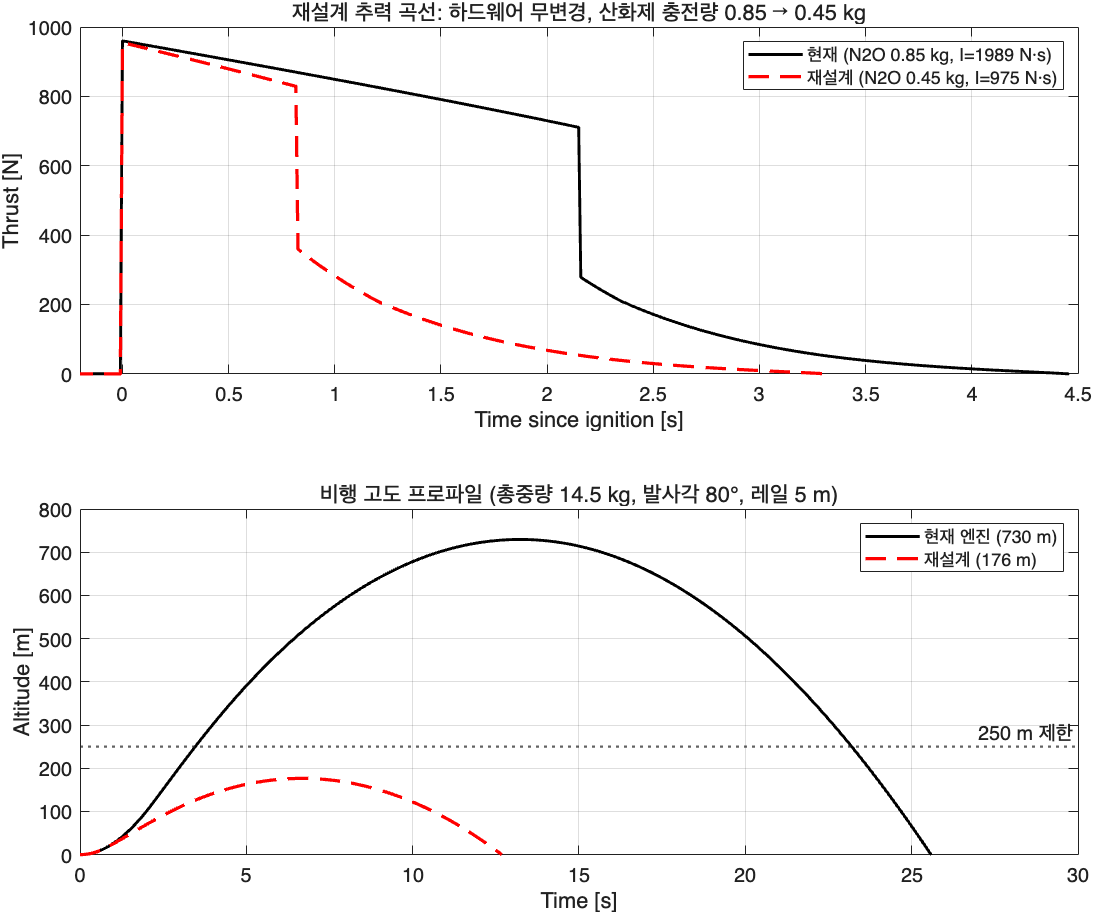
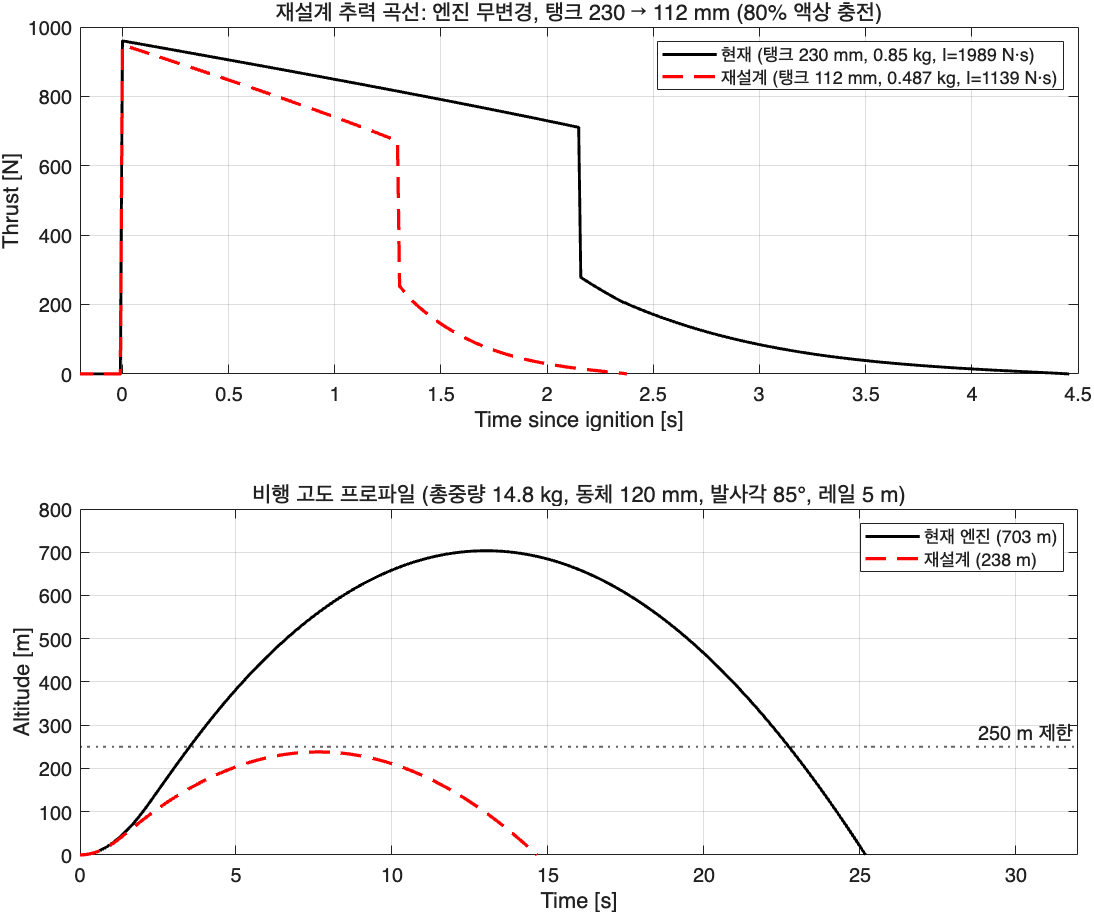
재설계 개정: 80% 액상 충전 규칙 + 신규 제원 반영, 탱크 112 mm / 0.487 kg
- 개정 제원: 총중량 14.8 kg, 동체 120 mm, 발사각 85도 (재설계 구상.md 갱신분)
- 운용 제약 반영: 부분 충전 불가, 탱크 높이의 80% 이상 액상 충전
  -> m(h) = A*h*(0.8*rho_l+0.2*rho_v) = 4.34*h[m] kg (15C) 연동 스윕
- 최종: 엔진 무변경, 탱크 230 -> 112 mm / N2O 0.487 kg
  시뮬 고도 238 m (요청 목표 ~240), 레일 22.7 m/s, I 1139 N.s
- 민감도: 탱크 1 mm = 고도 ~4.4 m; h>=115 mm부터 250 m 초과
- 임펄스 -5% 바이어스 적용 시 실기 ~260 m 가능성 명시,
  엄격 상한이면 h 108~110 mm 권장 (문서 기재)
- Flight_From_Config 기본값 개정 제원으로 갱신 (14.8/85도/동체 0.12 m)
- 1차안(부분충전 176 m)은 운용 제약으로 폐기, 문서 이력 기록

diff --git a/Flight_simul/Flight_From_Config.m b/Flight_simul/Flight_From_Config.m
@@ -5,16 +5,18 @@ function res = Flight_From_Config(config_base, opts)
 %
 %   추력 곡선: Mat_Data/<config>/<config>_y.mat의 y.nozzle.F (점화 기준 재영점)
 %   추진제 질량: 산화제 적재량(u.tank.m) + 연료 소모량(trapz y.fuel.mdot)
-%   기체/발사대: opts (기본 총중량 14.5 kg, 발사각 80도, 레일 5 m — 재설계 구상.md)
+%   기체/발사대: opts (기본 총중량 14.8 kg, 동체 120 mm, 발사각 85도, 레일 5 m
+%   — 재설계 구상.md 2026-07-04 개정판)
 %   반환: res.apogee, res.v_rail_exit, res.t_rail_exit, res.burn_alt,
 %         res.v_max, res.I_total, res.F_mean, res.t_burn, res.m_prop
 %   프로젝트 루트에서 실행하세요. (플롯/애니메이션 없음)
 
 if nargin < 2, opts = struct(); end
 getopt = @(f, d) get_field(opts, f, d);
-total_mass = getopt('total_mass', 14.5); % 이륙 총중량 [kg]
-elev_deg   = getopt('elev_deg', 80);     % 발사각 [deg]
+total_mass = getopt('total_mass', 14.8); % 이륙 총중량 [kg]
+elev_deg   = getopt('elev_deg', 85);     % 발사각 [deg]
 rail_h     = getopt('rail_h', 5);        % 레일 길이 [m]
+diameter   = getopt('diameter', 0.120);  % 동체 직경 [m]
 
 global TMS_Thrust %#ok<GVMIS>
 
@@ -45,7 +47,7 @@ m_prop = m_ox + m_fuel;
 
 %% 기체 파라미터 주입 + 초기 상태
 flight_param(struct('total_mass', total_mass, 'propulsion_mass', m_prop, ...
-                    'rail_h', rail_h));
+                    'rail_h', rail_h, 'diameter', diameter));
 init_state = [zeros(3,1); zeros(3,1); [0; elev_deg; 90]*pi/180; zeros(3,1)];
 time = 0:0.01:60;
 

diff --git a/docs/재설계/재설계 결과.md b/docs/재설계/재설계 결과.md
@@ -1,57 +1,61 @@
-# 재설계 결과 (2026-07-04)
+# 재설계 결과 (2026-07-04, 개정판)
 
-[재설계 구상.md](재설계%20구상.md)의 목표를 2026 분무·연소시험 교정 모델(fmult=4, Cd=0.60, fuel a=0.055, η_c*=0.95, flex 6.35 mm)로 달성한 결과 정리.
+[재설계 구상.md](재설계%20구상.md) 개정 제원(총중량 14.8 kg, 동체 ⌀120 mm, 발사각 85°, 레일 5 m) 기준. 2026 분무·연소시험 교정 모델(fmult=4, Cd=0.60, fuel a=0.055, η_c*=0.95, flex 6.35 mm) 사용.
 
-## 목표 대비 결과
+**운용 제약**: 부분 충전 불가 — 탱크 내부 높이의 **최소 80%가 액상**으로 채워져야 함. 따라서 탱크 높이 h와 산화제 질량 m은 독립이 아니라 m(h) = A_tank·h·(0.8·ρ_l + 0.2·ρ_v) @ 15 °C ≈ **4.34·h[m] kg**으로 연동됨.
+
+## 최종 설계: 엔진 무변경 + 탱크 단축 230 → 112 mm
+
+```
+u.tank.h = 230 → 112 mm
+u.tank.m = 0.85 → 0.487 kg   (80% 액상 충전 규칙에 따른 연동값)
+```
+
+인젝터(⌀1.4 × 28), 노즐(Dt 17 / De 35), 그레인(R7.5 × 7, L230) **모두 그대로**. 설정: `Config/2026_nova_redesign.mat` → `Run_Config` + `Flight_From_Config('2026_nova_redesign')`로 재현.
 
 | 항목 | 목표 | 현재 엔진 | **최종 재설계** |
 | --- | --- | --- | --- |
-| 최대 고도 | ≤ 250 m | 729 m | **176 m** (시뮬) / 실기 추정 ~190 m |
-| 레일 탈출속도 (5 m, 80°) | ≥ 15 m/s | 23.8 m/s | **23.9 m/s** |
-| 총임펄스 | — | 1989 N·s | 975 N·s |
-| 준정상 추력 / Pc | — | 819 N / 25.5 bar | 877 N / 27.3 bar |
-| 액상 연소시간 | — | 2.15 s | 0.82 s |
-
-조건: 총중량 14.5 kg, 발사대 5 m / 80°. 비행 시뮬은 `Flight_simul/Flight_From_Config.m`(6자유도, 모터 시뮬 추력 곡선 직결)로 계산. 기준선 검증: 현재 엔진 729 m / 23.8 m/s ↔ 관측치(~800 m / ~25 m/s)와 정합.
-
-## 최종 설계: 하드웨어 무변경 + 산화제 충전량 축소
-
-```
-변경 사항: u.tank.m = 0.85 → 0.45 kg  (이것이 전부)
-```
-
-- 인젝터(⌀1.4 × 28), 노즐(Dt 17 / De 35), 그레인(R7.5 × 7, L230), 탱크(⌀90 × 230) **모두 그대로**.
-- 기존 탱크에 0.45 kg만 충전 (충전율 약 39%, 15 °C 기준). 부분 충전이라 초기 기상 분율이 크지만(X₀ ≈ 0.28) 자가가압 블로다운은 오히려 압력이 잘 유지되어 추력이 소폭 상승함.
-- 설정 파일: `Config/2026_nova_redesign.mat` → `Run_Config('2026_nova_redesign')` + `Flight_From_Config('2026_nova_redesign')`로 재현.
-- 고도 여유를 덜 두고 싶으면 **0.48 kg**(시뮬 ~205 m, 실기 추정 ~225 m)까지 가능. 0.50 kg은 실기 추정 ~245 m로 경계선이라 비권장.
+| 최대 고도 | ≤ 250 m (목표 근접 ~240) | 703 m | **238 m** |
+| 레일 탈출속도 | ≥ 15 m/s | 23.7 m/s | **22.7 m/s** |
+| 총임펄스 | — | 1989 N·s | 1139 N·s |
+| 준정상 추력 / Pc | — | 819 N / 25.5 bar | 794 N / 25.1 bar |
+| 액상 연소시간 | — | 2.15 s | 1.30 s |
 
 ![비교](Redesign_Compare.png)
 
-## 핵심 발견: 이 공급계는 급기 라인이 유량을 지배한다
+## 탱크 높이 스윕 (80% 액상 충전 규칙, 개정 제원)
 
-재설계 스윕 과정에서 확인된 시스템 특성 (구상서의 우선순위와 반대되는 결과):
+| h [mm] | m [kg] | I [N·s] | 고도 [m] | 레일 [m/s] |
+| --- | --- | --- | --- | --- |
+| 110 | 0.478 | 1117 | 229 | 22.6 |
+| **112** | **0.487** | **1139** | **238** | **22.7** |
+| 113 | 0.491 | 1149 | 242 | 22.7 |
+| 115 | 0.500 | 1170 | 251 | 22.7 |
+| 120 | 0.522 | 1223 | 274 | 22.8 |
+| 130 | 0.565 | 1325 | 322 | 23.0 |
+| 140 | 0.609 | 1431 | 374 | 23.1 |
 
-1. **인젝터 홀 수는 유량 제어력이 거의 없음.** 홀 28 → 19개(-32%)로 줄여도 유량은 0.34 → 0.31 kg/s(-9%)에 그침. 교정 모델에서 인젝터는 비초크(압력비 0.90~0.92)로 운전되고, 급기 라인(플렉시블 6.35 mm + 밸브)이 8~11 bar를 소모하며 유량을 결정함. 이는 2026 연소시험을 재현하는 교정 상태 그 자체임.
-2. **노즐목은 Pc를 바꾸지만 추력은 거의 못 바꿈.** 라인 지배로 유량이 고정되면 F = C_f·(η·c*·ṁ/A_t)·A_t = C_f·η·c*·ṁ 이므로 목 직경과 1차 독립. Dt 17 → 14 mm 시도는 Pc만 30 bar로 올리고 유량 감소 효과가 없었음.
-3. 따라서 **레일 탈출속도(~24 m/s)는 이 하드웨어 조합에서 사실상 고정**이며(≥15 m/s 요건은 여유 만족), 고도를 줄이는 유일한 실효 레버는 **산화제 충전량**임. 구상서 우선순위 3이 실제로는 우선순위 1.
+민감도: **탱크 1 mm ≈ 산화제 4.3 g ≈ 고도 약 4.4 m**. h ≥ 115 mm부터 250 m 초과.
 
-*(만약 탈출속도를 ~17 m/s 수준으로 낮추고 싶다면 인젝터·노즐이 아니라 라인 쪽 — 예: 더 작은 보어의 밸브/오리피스 추가 — 을 바꿔야 함.)*
+## 시스템 특성 (설계 자유도의 실상)
 
-## 스윕 요약
+교정 모델에서 공급계는 **급기 라인 지배** — 인젝터는 비초크(압력비 0.90~0.92), 라인(플렉시블 6.35 mm + 밸브)이 8~11 bar를 소모하며 유량을 결정:
 
-| 안 | 변경 | I [N·s] | 고도(시뮬) | 레일 [m/s] | 평가 |
-| --- | --- | --- | --- | --- | --- |
-| 인젝터+노즐 축소 (n18, Dt14) | 홀 -36%, 목 -18%, ox 0.45 | 1043 | 199 m | 21.3 | Pc 30 bar↑, 유량 감소 실패, 변경多 |
-| 인젝터만 축소 (n19~21, Dt17) | 홀 -25~32%, ox 0.45 | ~1020 | ~195 m | 22.2~22.6 | 유량 변화 미미 → 무의미한 변경 |
-| **무변경 + ox 0.45 (채택)** | **충전량만** | **975** | **176 m** | **23.9** | **제작변경 0, 여유 최대** |
-| 무변경 + ox 0.48 | 충전량만 | ~1050 | ~205 m | ~23.5 | 성능 여유용 대안 |
-| 무변경 + ox 0.50 | 충전량만 | 1103 | 227 m | 23.4 | 실기 추정 ~245 m, 경계선 |
+1. 인젝터 홀 28 → 19개(-32%)로 줄여도 유량 −9%뿐 → **우선순위 1(인젝터)은 유량 제어력 없음**
+2. 라인 지배에서 F = C_f·η·c*·ṁ (노즐목과 1차 독립) → **우선순위 2(노즐)는 Pc만 바꾸고 추력·유량 불변**
+3. 레일 탈출속도(~23 m/s)는 이 하드웨어 조합의 고정값 (요건 15 m/s는 여유 만족). 낮추려면 라인 쪽 변경 필요
+4. 유일한 실효 레버 = 산화제 탑재량(임펄스) → 80% 충전 규칙 하에서는 **탱크 높이가 곧 고도 조절 다이얼**
 
 ## 검증 및 주의사항
 
-- **모델 바이어스**: 교정 모델은 2026 연소시험 대비 총임펄스 −5% (추력 −0.6%, 액상시간 −2%). 위 "실기 추정"은 이를 반영한 값. 176 m 설계는 바이어스·바람·항력계수 불확실성을 겹쳐도 250 m 이내.
-- **증기 꼬리 비중**: 0.45 kg 설계는 총임펄스의 약 26%가 액체 소진 후 증기 배출 구간에서 나옴. 증기상 급기 라인 결합 모델(2026-07-04 도입)로 연소시험 꼬리를 재현하지만, 실기에서 꼬리가 더 짧으면 고도는 더 낮아지는 방향(안전측).
-- **노즐 박리 없음**: 액상 구간 Pe ≥ 0.95 bar (Summerfield 한계 ~0.4 bar 대비 여유).
-- **O/F 상승**: 5.7~6.1 (기존 4.4~5.5). 산화제 과잉 방향이나 연료 소모 0.105 kg으로 그레인 웹 여유 충분, HDPE는 산화제 과잉에 둔감.
-- **부분 충전 절차**: 중량 기준 충전(0.45 ± 0.02 kg). 충전량 +0.05 kg 오차 시 고도 약 +25 m.
-- 이 재설계 탐색 중 Pc 수렴 루프의 결함(비초크 영역에서 Pinj 무감쇠 갱신으로 발산)을 발견·수정함(`System/LiqFeed.m`, `System/VapFeed.m`) — 수정 전 결과는 무효, 기존 검증 케이스는 결과 불변 확인.
+- **모델 바이어스 (중요)**: 교정 모델은 2026 연소시험 대비 총임펄스 −5% (추력 −0.6%, 액상시간 −2%). 이 바이어스가 실기에서 그대로면 고도는 시뮬 대비 **약 +10% (238 → ~260 m)**가 될 수 있음. 250 m가 규정상 엄격한 상한이라면 **h = 108~110 mm (시뮬 220~229 m, 실기 추정 240~250 m)**를 권장. h=112는 "시뮬 기준 240 m" 요청값.
+- 액상 구간 노즐 출구압 Pe ≥ 0.77 bar — 박리 여유 있음 (Summerfield ~0.4 bar).
+- O/F 5.2~6.1 (기존 4.4~5.5 대비 상승), 연료 소모 0.096 kg — 그레인 웹 여유 충분.
+- 초기 기상 분율 X₀ = 0.06 (80% 충전) — 증기 꼬리 임펄스 비중 ~10%로 작음 (부분충전안 26% 대비 예측 신뢰도 유리).
+- 충전 온도 민감도: m(h) 연동값은 15 °C 기준. 충전 온도가 다르면 ρ_l 변화로 80% 규칙의 질량이 달라짐 (예: 10 °C ≈ +2%, 20 °C ≈ −3%) — 충전 절차서에 온도 보정표 반영 권장.
+- 재설계 탐색 중 Pc 수렴 루프 결함(비초크 영역 Pinj 무감쇠 발산)을 발견·수정함(`System/LiqFeed.m`, `VapFeed.m`). 기존 검증 케이스 결과 불변 확인.
+
+## 이력
+
+- 1차안 (14.5 kg/80°/⌀110, 부분충전 허용 가정): 하드웨어 무변경 + 0.45 kg 부분충전 → 176 m. **운용 제약(80% 충전 규칙)으로 폐기.**
+- 개정안 (14.8 kg/85°/⌀120, 80% 충전 규칙): 탱크 112 mm / 0.487 kg → 238 m. **채택.**

diff --git a/docs/재설계/재설계 구상.md b/docs/재설계/재설계 구상.md
@@ -1,6 +1,6 @@
 # 재설계 구상
 ## 목표
-하이브리드 로켓 모터의 제원값을 조절해서 /Users/poesy/Documents/Praxis/StaRbuSt_mvp/Flight_simul에서 로켓 무게 14.5kg, 동체직경 120mm, 발사대 길이5m, 발사대 각도 80도인 조건에서 고도 250m 이하, 발사대 탈출속도 15m/s이상(안정적으로 약 17m/s 근처)를 만족하는 추진 성능을 만족하는 모터를 재설계하고자 함.
+하이브리드 로켓 모터의 제원값을 조절해서 /Users/poesy/Documents/Praxis/StaRbuSt_mvp/Flight_simul에서 로켓 무게 14.8kg, 동체직경 120mm, 발사대 길이5m, 발사대 각도 85도인 조건에서 고도 250m 이하, 발사대 탈출속도 15m/s이상(안정적으로 약 17m/s 근처)를 만족하는 추진 성능을 만족하는 모터를 재설계하고자 함.
 
 (참고로 현재 연소시험 결과 기준으로 고도 약 800m 및 탈출속도 약 25m/s 임. 고도가 너무 높음.)
 